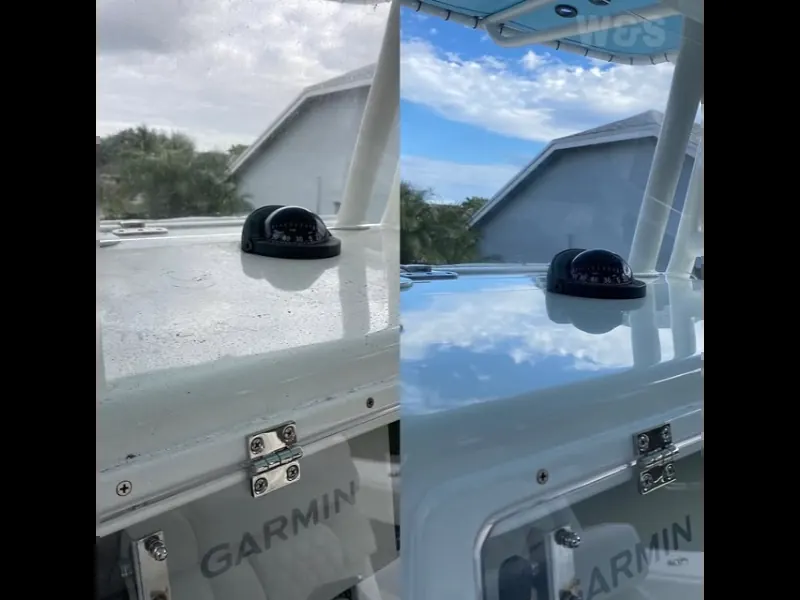
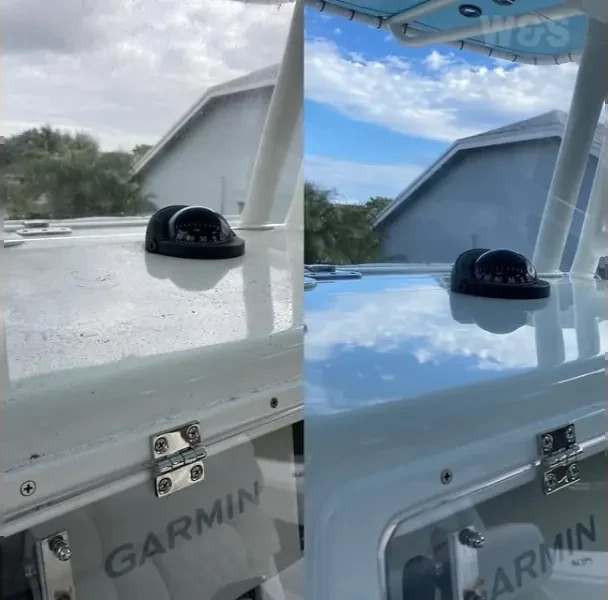
fix: resenas (contraste+sin pausa), recorte franjas negras imagenes blog, tarjetas blancas
Reseñas (marquee):
- .rw-quote color #cbd5e1 → #475569 (contraste legible sobre tarjeta blanca)
- Eliminada la pausa al pasar el cursor: las reseñas siempre se mueven

Imagenes del blog (brillo, polichado, limpieza, polichado(2)):
- Tenian 96px de franja negra a cada lado (baked-in en 800x600)
- Recortadas a 608x600 = solo el contenido real, sin franjas negras

Tarjetas de blog en index.html:
- bg-white/5 (casi transparente, se veian incompletas con hueco) → bg-white
  solido + border-slate-200 + w-full (tarjetas definidas que llenan la columna)

diff --git a/index.html b/index.html
@@ -1323,8 +1323,7 @@
         }
         .rw-left  { animation: marquee-l 34s linear infinite; }
         .rw-right { animation: marquee-r 42s linear infinite; }
-        .rw-outer:hover .rw-left,
-        .rw-outer:hover .rw-right { animation-play-state: paused; }
+        /* Las reseñas siempre se mueven — no se pausan al pasar el cursor */
         .rw-card {
           flex-shrink: 0;
           width: 272px;
@@ -1340,7 +1339,7 @@
           font-style: italic;
           font-size: .78rem;
           line-height: 1.55;
-          color: #cbd5e1;
+          color: #475569;
           margin-bottom: .7rem;
           display: -webkit-box;
           -webkit-line-clamp: 3;
@@ -1423,7 +1422,7 @@
           <div class="grid md:grid-cols-2 gap-8">
             <!-- Blog Card 1 -->
             <div
-              class="blog-preview-card mx-auto bg-white/5 border border-white/10 rounded-sm shadow-lg overflow-hidden hover:shadow-2xl transition-shadow"
+              class="blog-preview-card mx-auto w-full bg-white border border-slate-200 rounded-sm shadow-lg overflow-hidden hover:shadow-2xl transition-shadow"
             >
               <img
                 src="images/brillo.webp"
@@ -1455,7 +1454,7 @@
 
             <!-- Blog Card 2 -->
             <div
-              class="blog-preview-card mx-auto bg-white/5 border border-white/10 rounded-sm shadow-lg overflow-hidden hover:shadow-2xl transition-shadow"
+              class="blog-preview-card mx-auto w-full bg-white border border-slate-200 rounded-sm shadow-lg overflow-hidden hover:shadow-2xl transition-shadow"
             >
               <img
                 src="images/polichado.webp"
@@ -1487,7 +1486,7 @@
 
             <!-- Blog Card 3 -->
             <div
-              class="blog-preview-card mx-auto bg-white/5 border border-white/10 rounded-sm shadow-lg overflow-hidden hover:shadow-2xl transition-shadow"
+              class="blog-preview-card mx-auto w-full bg-white border border-slate-200 rounded-sm shadow-lg overflow-hidden hover:shadow-2xl transition-shadow"
             >
               <img
                 src="images/limpieza.webp"
@@ -1519,7 +1518,7 @@
 
             <!-- Blog Card 4 -->
             <div
-              class="blog-preview-card mx-auto bg-white/5 border border-white/10 rounded-sm shadow-lg overflow-hidden hover:shadow-2xl transition-shadow"
+              class="blog-preview-card mx-auto w-full bg-white border border-slate-200 rounded-sm shadow-lg overflow-hidden hover:shadow-2xl transition-shadow"
             >
               <img
                 src="images/polichado%20(2).webp"
